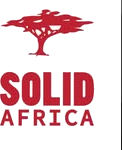
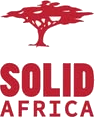
finish

diff --git a/styles.css b/styles.css
@@ -1094,11 +1094,14 @@ p + p { margin-top: 1.125rem; }
 
 @keyframes loader-failsafe { to { opacity: 0; visibility: hidden; } }
 
+/* The gap here is the tight one — track to counter, which belong together as a
+   single readout. The mark keeps its original distance via the track's own
+   margin, so pulling the number in does not drag the logo down with it. */
 .loader-inner {
   display: flex;
   flex-direction: column;
   align-items: center;
-  gap: 1.875rem;
+  gap: 0.75rem;
 }
 
 .loader-mark {
@@ -1109,10 +1112,13 @@ p + p { margin-top: 1.125rem; }
 }
 
 /* A hairline that fills — the same rule that separates every section on the
-   site, put to work as the progress track. */
+   site, put to work as the progress track. Kept to roughly two-thirds of the
+   mark above it: a track wider than the logo it belongs to reads as the main
+   event, when it is only there to account for the wait. */
 .loader-track {
   position: relative;
-  width: clamp(8rem, 17vw, 11.5rem);
+  margin-top: 1.125rem;    /* + the 0.75rem gap = the mark's original clearance */
+  width: clamp(4.5rem, 9vw, 6.5rem);
   height: 1px;
   background: var(--line);
   overflow: hidden;
@@ -1126,23 +1132,22 @@ p + p { margin-top: 1.125rem; }
 }
 
 .loader-pct {
-  font-size: 0.75rem;
-  font-weight: 600;
+  font-size: 0.625rem;
+  font-weight: 400;
   letter-spacing: 0.22em;
   color: var(--ink-mute);
   font-variant-numeric: tabular-nums;
 }
 
-/* The digits go 0 → 100, so the box reserves the widest case and aligns
-   right. Without it the whole centred line would shift as the count climbs. */
 /* Reserves the widest case (100) so the centred line never shifts as the
    count climbs. 3ch covers the digits; the 0.66em covers the two extra
-   letter-spaces those digits bring with them. */
+   letter-spaces those digits bring with them. The <b> is here for that
+   reservation, not for emphasis — hence the normal weight. */
 .loader-pct b {
   display: inline-block;
   min-width: calc(3ch + 0.66em);
   text-align: right;
-  font-weight: 600;
+  font-weight: 400;
   color: var(--ink);
 }
 

diff --git a/index.html b/index.html
@@ -209,7 +209,7 @@
           <li class="logo-rwanda-events"><img src="assets/images/clients/rwanda-events-group.png" alt="Rwanda Events Group" width="142" height="120" loading="lazy"></li>
           <li class="logo-glads"><img src="assets/images/clients/glads-apartments.png" alt="Glads Apartments" width="110" height="103" loading="lazy"></li>
           <li class="logo-safe-auto"><img src="assets/images/clients/safe-auto.png" alt="Safe Auto Garage" width="122" height="94" loading="lazy"></li>
-          <li class="logo-solid-africa"><img src="assets/images/clients/solid-africa.png" alt="Solid Africa" width="122" height="150" loading="lazy"></li>
+          <li class="logo-solid-africa"><img src="assets/images/clients/solid-africa.png" alt="Solid Africa" width="95" height="118" loading="lazy"></li>
           <li class="logo-rgl"><img src="assets/images/clients/rgl-security.png" alt="RGL Security Services" width="98" height="170" loading="lazy"></li>
           <li class="logo-brd"><img src="assets/images/clients/brd.png" alt="BRD" width="120" height="37" loading="lazy"></li>
         </ul>
